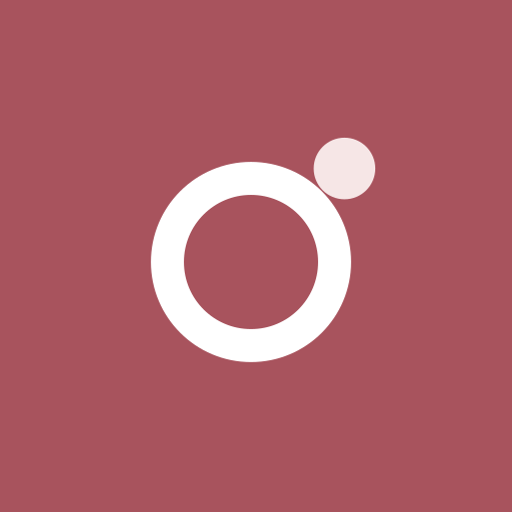
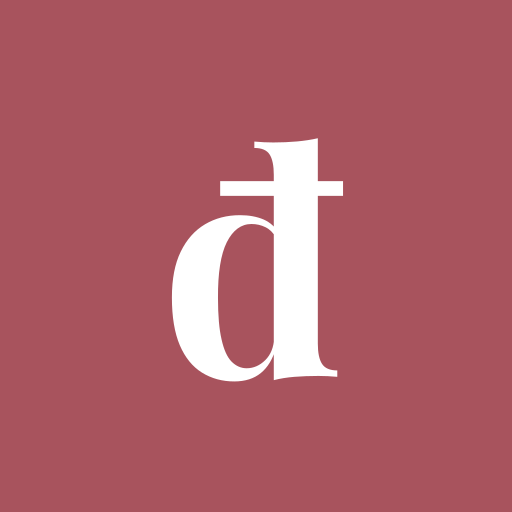
feat(brand): a serif 'đ' mark instead of the ring-and-dot
The rounded square with a ring and a corner dot read as Instagram's camera
glyph, a trademark and App Store review risk (audit). The new mark is a white
Playfair 'đ' — the first letter of 'đẹp' and the wordmark's own face — on
rose. The outline lives in lib/design/brand.ts so web, app, favicon, share
image and every app/web icon draw the same shape without a font loaded; the
crossbar is drawn heavier so it survives at 16px.

Changed region(s): [[0.2812, 0.25, 0.75, 0.75]]

diff --git a/apps/mobile/src/ui/bits.tsx b/apps/mobile/src/ui/bits.tsx
@@ -3,6 +3,8 @@ import { Image } from "expo-image"
 import { Text, View, type StyleProp, type ViewStyle } from "react-native"
 import Animated, { useAnimatedStyle, useSharedValue, withRepeat, withTiming } from "react-native-reanimated"
 import { initials, formatRating } from "@/data/format"
+import Svg, { Path, Rect } from "react-native-svg"
+import { LOGO_GLYPH_PATH, LOGO_RADIUS } from "@/shared"
 import { aspect, colors, radius, wordmarkFont } from "@/theme"
 import { Button } from "./button"
 import { Icon } from "./icon"
@@ -158,36 +160,13 @@ export function Divider({ style }: { style?: StyleProp<ViewStyle> }) {
   return <View style={[{ height: 1, backgroundColor: colors.line }, style]} />
 }
 
-/** The 360dep mark: a ring (the 360) and the one accent dot. Same geometry as components/ui.tsx LogoMark. */
+/** The 360dep mark: a white serif "đ" on rose. Same outline as the web (lib/design/brand.ts). */
 export function LogoMark({ size = 28 }: { size?: number }) {
-  const u = size / 32
-  const ring = 7.6 * 2 * u + 3 * u
   return (
-    <View style={{ width: size, height: size, borderRadius: 9 * u, backgroundColor: colors.accent }}>
-      <View
-        style={{
-          position: "absolute",
-          left: 15.5 * u - ring / 2,
-          top: 16.5 * u - ring / 2,
-          width: ring,
-          height: ring,
-          borderRadius: ring / 2,
-          borderWidth: 3 * u,
-          borderColor: colors.surface,
-        }}
-      />
-      <View
-        style={{
-          position: "absolute",
-          left: (24 - 2.8) * u,
-          top: (8 - 2.8) * u,
-          width: 5.6 * u,
-          height: 5.6 * u,
-          borderRadius: 2.8 * u,
-          backgroundColor: colors.accentSoft,
-        }}
-      />
-    </View>
+    <Svg width={size} height={size} viewBox="0 0 32 32">
+      <Rect width={32} height={32} rx={LOGO_RADIUS} fill={colors.accent} />
+      <Path d={LOGO_GLYPH_PATH} fill={colors.surface} />
+    </Svg>
   )
 }
 

diff --git a/lib/design/brand.ts b/lib/design/brand.ts
@@ -1,0 +1,14 @@
+/**
+ * The 360dep mark: a white serif "đ" (the first letter of "đẹp", set in
+ * Playfair Display Bold, the wordmark's face) on a rose rounded square. The
+ * earlier ring-and-dot mark read as Instagram's camera glyph.
+ *
+ * The letter is stored as an outline on a 32×32 grid so the web (<svg>), the
+ * native app (react-native-svg), the favicon and the app icons draw the same
+ * shape without depending on a font being loaded. The crossbar is drawn a
+ * little heavier than the font's so it survives at 16px.
+ */
+export const LOGO_GLYPH_PATH =
+  "M20.83 6.80L20.83 6.80L20.83 22.84Q20.83 23.92 21.16 24.43Q21.49 24.94 22.35 24.94L22.35 24.94L22.35 25.44Q21.61 25.37 20.88 25.37L20.88 25.37Q19.87 25.37 19.00 25.44Q18.13 25.51 17.39 25.70L17.39 25.70L17.39 9.66Q17.39 8.59 17.07 8.08Q16.75 7.56 15.87 7.56L15.87 7.56L15.87 7.06Q16.63 7.13 17.35 7.13L17.35 7.13Q18.32 7.13 19.21 7.05Q20.09 6.97 20.83 6.80ZM14.75 12.81L14.75 12.81Q15.80 12.81 16.60 13.15Q17.39 13.50 17.85 14.31L17.85 14.31L17.56 14.57Q17.25 14.00 16.74 13.75Q16.23 13.50 15.65 13.50L15.65 13.50Q14.44 13.50 13.72 14.92Q13.01 16.34 13.03 19.29L13.03 19.29Q13.03 21.32 13.31 22.52Q13.58 23.73 14.09 24.25Q14.61 24.77 15.27 24.77L15.27 24.77Q16.08 24.77 16.73 24.13Q17.37 23.49 17.42 22.39L17.42 22.39L17.54 23.23Q17.18 24.49 16.38 25.14Q15.58 25.80 14.30 25.80L14.30 25.80Q12.89 25.80 11.78 25.11Q10.67 24.42 10.05 22.98Q9.43 21.53 9.43 19.24L9.43 19.24Q9.43 17.07 10.12 15.66Q10.81 14.24 12.02 13.52Q13.22 12.81 14.75 12.81ZM13.2 10.15L22.8 10.15L22.8 11.3L13.2 11.3Z"
+
+export const LOGO_RADIUS = 9

diff --git a/components/ui.tsx b/components/ui.tsx
@@ -6,6 +6,7 @@ import Link from "next/link"
 import { useRouter } from "next/navigation"
 import { ChevronLeft, Star } from "lucide-react"
 import type { BookingStatus } from "@/lib/types"
+import { LOGO_GLYPH_PATH, LOGO_RADIUS } from "@/lib/design/brand"
 import { cn, initials } from "@/lib/utils"
 
 type ButtonVariant = "primary" | "outline" | "soft" | "ghost" | "danger"
@@ -51,13 +52,12 @@ export function ButtonLink({
   return <Link className={buttonClass(variant, size, className)} {...props} />
 }
 
-/** The mark: a lens ring with a red "recording" dot. Reads at 16px. */
+/** The mark: a white serif "đ" on rose (lib/design/brand.ts). Reads at 16px. */
 export function LogoMark({ size = 32, className }: { size?: number; className?: string }) {
   return (
     <svg aria-hidden width={size} height={size} viewBox="0 0 32 32" className={cn("shrink-0", className)}>
-      <rect width="32" height="32" rx="9" fill="var(--color-accent)" />
-      <circle cx="15.5" cy="16.5" r="7.6" fill="none" stroke="#fff" strokeWidth="3" />
-      <circle cx="24" cy="8" r="2.8" fill="#F6E6E6" />
+      <rect width="32" height="32" rx={LOGO_RADIUS} fill="var(--color-accent)" />
+      <path d={LOGO_GLYPH_PATH} fill="#fff" />
     </svg>
   )
 }

diff --git a/app/opengraph-image.tsx b/app/opengraph-image.tsx
@@ -1,4 +1,5 @@
 import { ImageResponse } from "next/og"
+import { LOGO_GLYPH_PATH, LOGO_RADIUS } from "@/lib/design/brand"
 
 export const alt = "360dep — Đặt thợ làm đẹp, người chụp ảnh và người mẫu gần bạn"
 export const size = { width: 1200, height: 630 }
@@ -27,9 +28,8 @@ export default function OpengraphImage() {
       >
         <div style={{ display: "flex", alignItems: "center", gap: 20 }}>
           <svg width="84" height="84" viewBox="0 0 32 32">
-            <rect width="32" height="32" rx="9" fill={ACCENT} />
-            <circle cx="15.5" cy="16.5" r="7.6" fill="none" stroke="#fff" strokeWidth="3.4" />
-            <circle cx="24" cy="8" r="2.8" fill="#F6E6E6" />
+            <rect width="32" height="32" rx={LOGO_RADIUS} fill={ACCENT} />
+            <path d={LOGO_GLYPH_PATH} fill="#fff" />
           </svg>
           <div style={{ display: "flex", fontSize: 60, fontWeight: 700, color: ACCENT, letterSpacing: -1 }}>360dep</div>
         </div>

diff --git a/apps/mobile/src/shared.ts b/apps/mobile/src/shared.ts
@@ -9,6 +9,7 @@
  */
 export * from "@shared/design/tokens"
 export * from "@shared/design/category-icons"
+export * from "@shared/design/brand"
 export type * from "@shared/types"
 export * from "@shared/catalog"
 export * from "@shared/feed"
